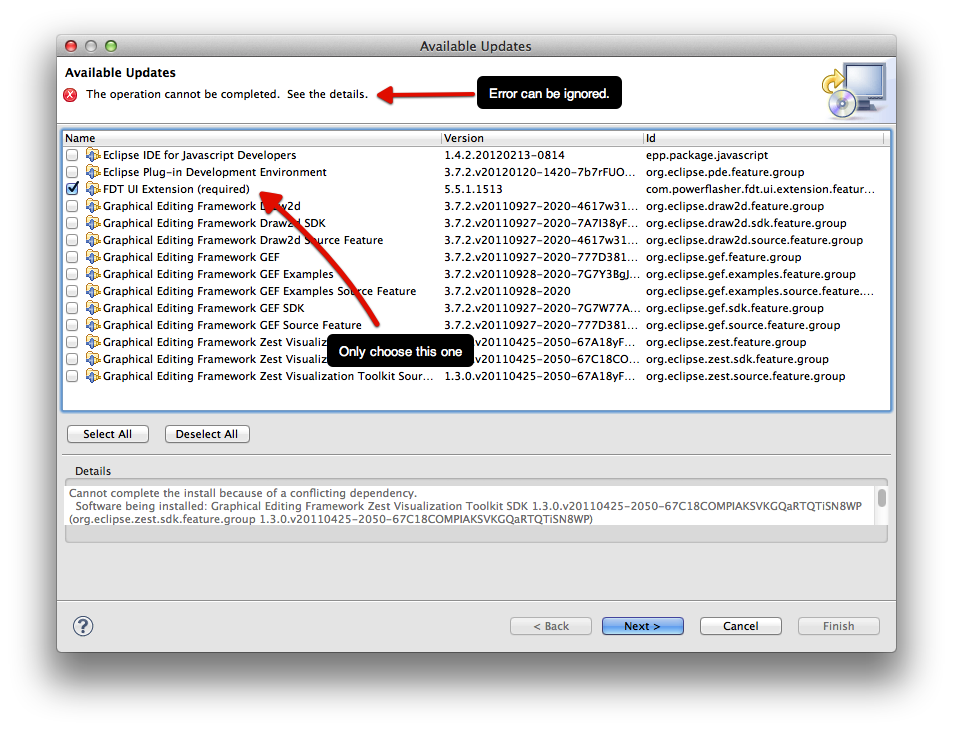
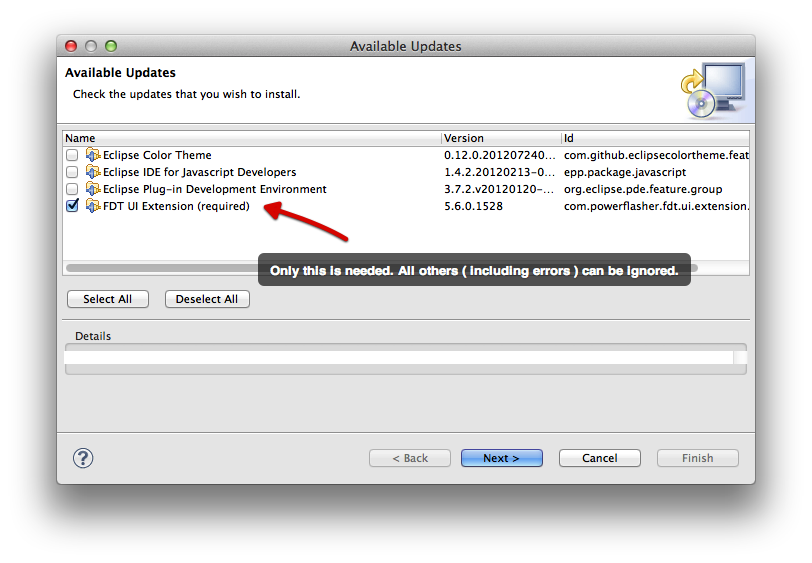
Updated for 5.6

diff --git a/index.html b/index.html
@@ -51,6 +51,10 @@
 					<li>* Provide Option To Prevent ADL Launch After Compiling</li>
 					<li>* Have Add Semicolon Quick Fix Be In FDT Free</li>
 				</ul>
+				</br>
+				<h2>Updating</h2>
+				<p><img src="./files/update.png" alt="FDT 5.6 Performance" width="500"><p>
+				<p>When updating FDT, you may encoutner other Eclipse plugins that also ask for an update - some may even show up as errors. To be safe, stick to just updating FDT. This is what we've primarily testied against and it works correctly.</p>
             </div>
         </div>
 </div>
